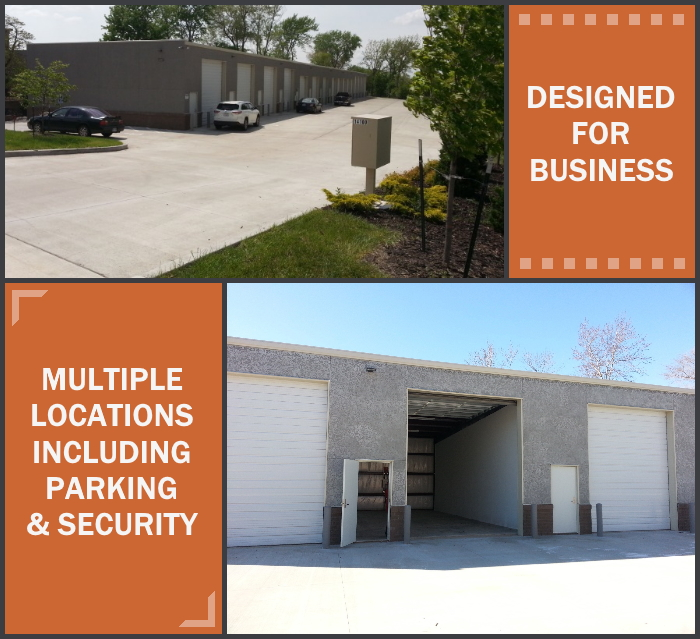
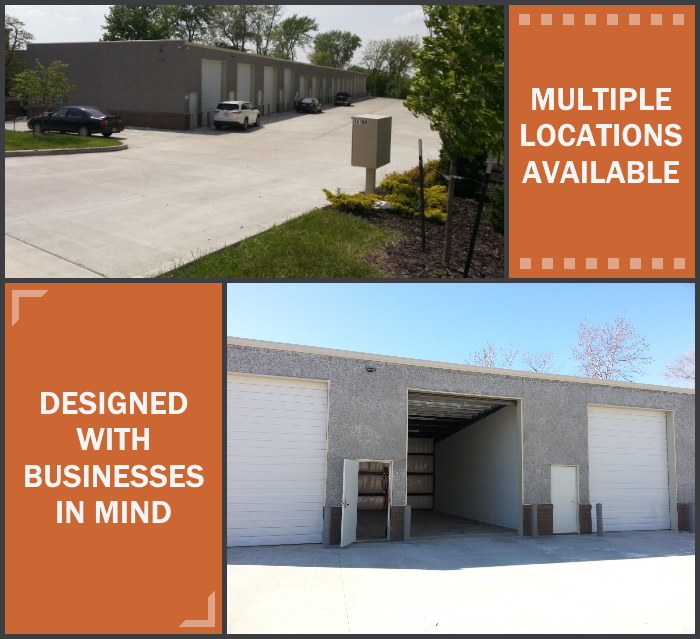
Homepage Edits
Made some edits to the wording and pictures of the homepage.

Changed region(s): [[0.03, 0.5649, 0.3, 0.8623], [0.72, 0.1189, 0.99, 0.2973]]

diff --git a/client/src/routes/home/Home.js b/client/src/routes/home/Home.js
@@ -4,9 +4,9 @@ import { useHistory } from 'react-router-dom';
 import 'react-gallery-carousel/dist/index.css';
 import './home.sass';
 import pinsImage from './images/pins.png';
-import img1 from './images/169hwyOlathe.jpeg';
+import img1 from './images/location6.jpg';
 import img2 from './images/overlandParkMain.jpeg';
-import img3 from './images/rearloading.jpeg';
+import img3 from './images/169hwyOlathe.jpeg';
 import collage from './images/collage.jpg';
 
 function Home(props) {
@@ -49,19 +49,19 @@ function Home(props) {
                             <i className="fas fa-city homepageIcon"></i>
                             <h5 className='small pt-4'>INDUSTRIAL STORAGE SPACE</h5>
                             <h2><span className='themeText'>Access</span> Premium Storage Suitable For Commercial Use</h2>
-                            <p className='fst-italic'>Contractors Garage is ideal for the small business owner or hobbyist who needs an affordable and flexible alternative to their home garage, restrictive mini-storage, or traditional industrial space that is often too large and expensive.</p>
+                            <p className='fst-italic'>Contractors Garage offers large functional industrial space designed exclusively for entrepreneurs and hobbyists including but not limited to landscapers, plumbers, electricians, specialty vehicles, or about anyone needing space larger than mini storage but smaller and less expensive than traditional incubator industrial space.</p>
                             <ul className='list-unstyled'>
                                 <li className='pb-2 d-flex align-items-center'>
                                     <i className="fas fa-check checkIcon"></i>
-                                    <span className='ps-3'>6 Locations</span>
+                                    <span className='ps-3'>Multiple locations in Kansas City Metro and may be expanding to a town near you</span>
                                 </li>
                                 <li className='pb-2 d-flex align-items-center'>
                                     <i className="fas fa-check checkIcon"></i>
-                                    <span className='ps-3'>Well Insulated</span>
+                                    <span className='ps-3'>Insulated Units</span>
                                 </li>
                                 <li className='pb-2 d-flex align-items-center'>
                                     <i className="fas fa-check checkIcon"></i>
-                                    <span className='ps-3'>Electric service in every unit</span>
+                                    <span className='ps-3'>Electric service in all units</span>
                                 </li>
                                 <li className='pb-2 d-flex align-items-center'>
                                     <i className="fas fa-check checkIcon"></i>
@@ -69,11 +69,11 @@ function Home(props) {
                                 </li>
                                 <li className='pb-2 d-flex align-items-center'>
                                     <i className="fas fa-check checkIcon"></i>
-                                    <span className='ps-3'>Huge parking lots</span>
+                                    <span className='ps-3'>Huge parking lots for maximum trailer maneuverability</span>
                                 </li>
                                 <li className='d-flex align-items-center'>
                                     <i className="fas fa-check checkIcon"></i>
-                                    <span className='ps-3'>Storefronts available in select units</span>
+                                    <span className='ps-3'>Storefronts, bathroom(s), water, outside storage, and/or mailboxes available at some locations</span>
                                 </li>
                             </ul>
                         </div>
@@ -114,8 +114,8 @@ const CarouselOverlay = (props) => {
             <div className="container-fluid">
                 <div className="row text-center justify-content-center">
                     {props.index === 0 && <h4>MULTIPLE CONVENIENT LOCATIONS</h4>}
-                    {props.index === 1 && <h4>LISTING SERVICES AVAILABLE</h4>}
-                    {props.index === 2 && <h4>WE ARE DESIGNED FOR BUSINESS</h4>}
+                    {props.index === 1 && <h4>LIST YOUR CONTRACTORS GARAGE WITH US</h4>}
+                    {props.index === 2 && <h4>DESIGNED WITH BUSINESSES IN MIND</h4>}
                     <span className='divider mt-3'></span>
                 </div>
                 <div className="row">

diff --git a/client/src/shared/footer/Footer.js b/client/src/shared/footer/Footer.js
@@ -24,7 +24,8 @@ const Footer = () => {
                             <div className="col-6 col-lg-4">
                                 <h6>Company</h6>
                                 <ul className="list-unstyled">
-                                    <li><NavLink className="text-white-50" tag={Link} to='/development-services'>Development Services</NavLink></li>
+                                    <li><NavLink className="text-white-50" tag={Link} target='_blank' to={{pathname: 'http://www.insightcommercial.net/construction.html'}}>Development Consulting Services</NavLink></li>
+                                    <li><NavLink className="text-white-50" tag={Link} to='/development-services'>List With Us</NavLink></li>
                                     <li><NavLink className="text-white-50" tag={Link} to='/privacy-policy'>Privacy Policy</NavLink></li>
                                     <li><NavLink className="text-white-50" tag={Link} to='/terms-of-service'>Terms of Service</NavLink></li>
                                 </ul>

diff --git a/client/src/routes/home/home.sass b/client/src/routes/home/home.sass
@@ -63,7 +63,7 @@
         background-color: transparentize($gunMetalGrey, .1)
         top: 75%
         left: 10%
-        width: 500px
+        width: 600px
         height: 160px
         color: whitesmoke
 
